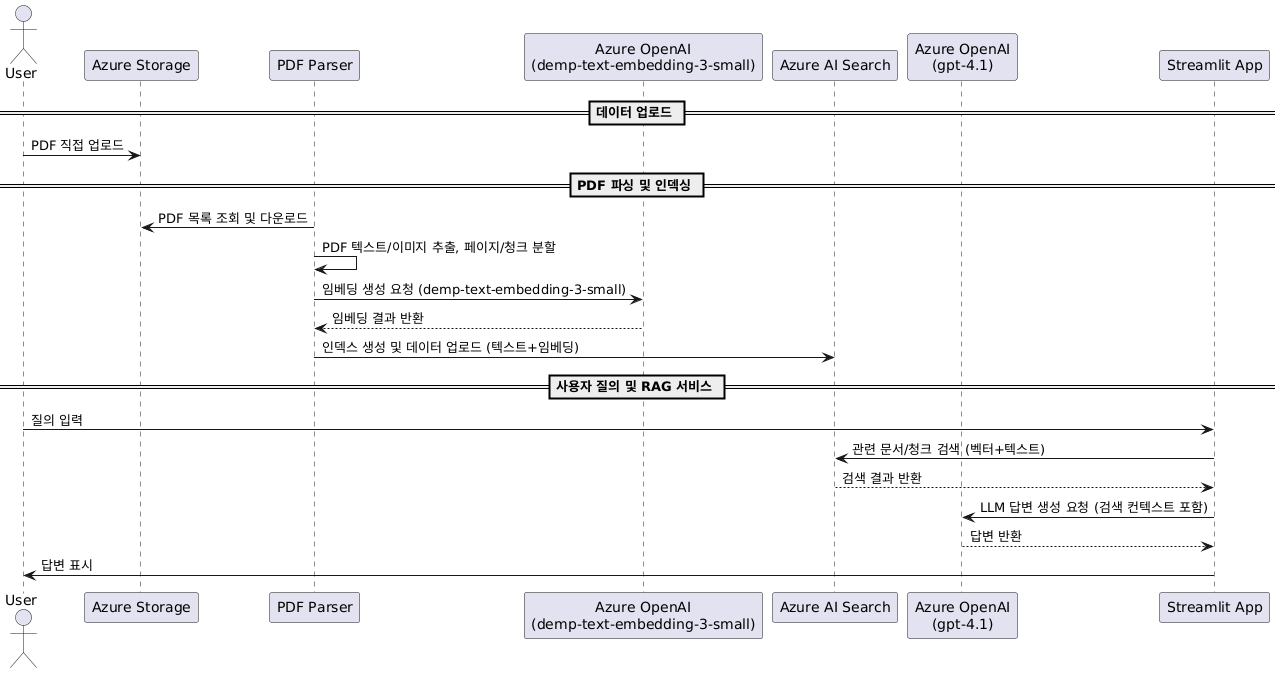
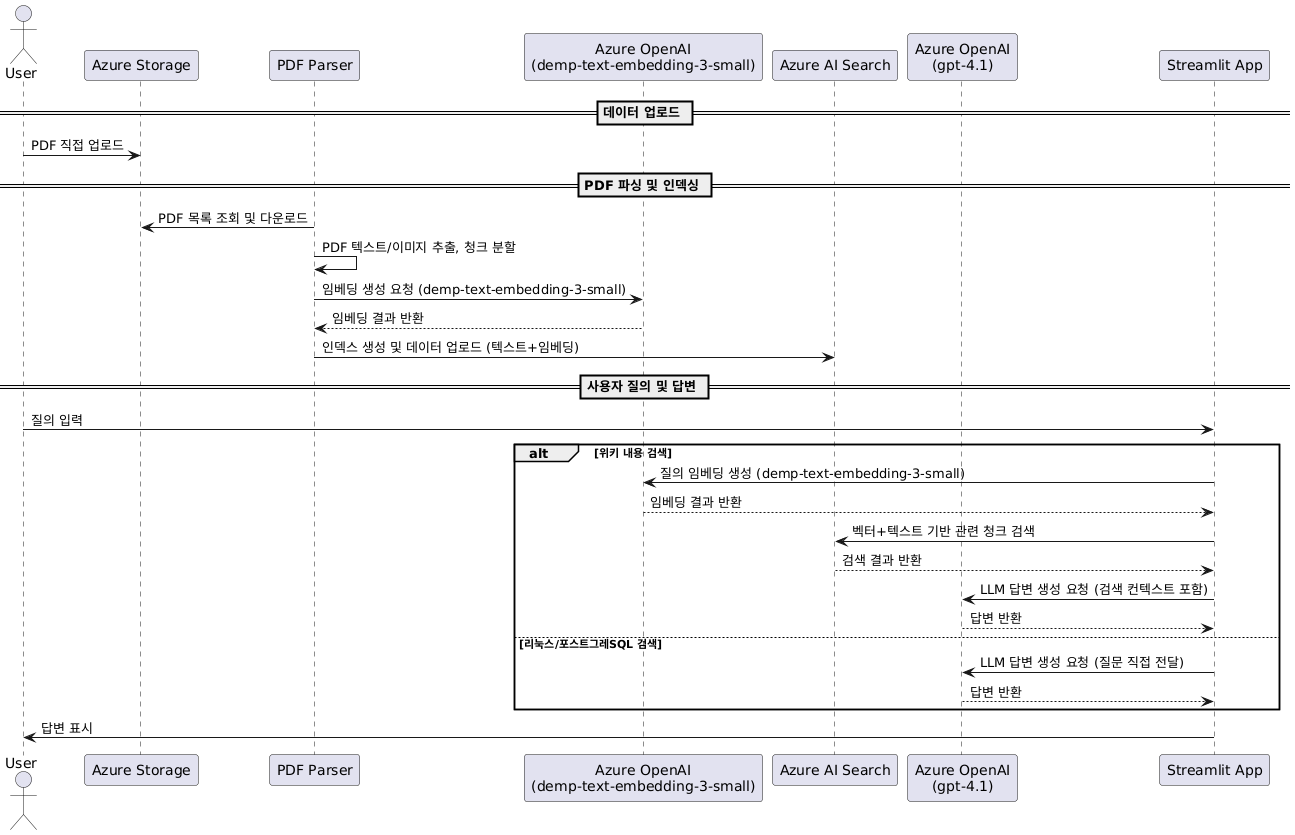
Refactor code structure for improved readability and maintainability

diff --git a/README.md b/README.md
@@ -36,6 +36,8 @@
 - **Streamlit 기반 UI**:
     - 간편한 웹 인터페이스 제공
 
+![airmapqna.png](airmapqna.png)
+
 ## 설치 및 실행 방법
 
 1. **필수 패키지 설치**
@@ -81,18 +83,20 @@ streamlit run airmapqna-app.py
 | airmapqna-app.py | 메인 Streamlit 앱 코드 |
 | .env | 환경 변수 파일 (직접 생성 필요) |
 
-## 주요 코드 설명
+## 주요 흐름
 
-- **클라이언트 초기화**:
-Azure OpenAI 및 Azure AI Search 클라이언트 객체를 초기화하고 캐시하여 사용합니다.
-- **질문 라우팅**:
-질문 내용에 따라 리눅스, PostgreSQL, 위키로 분기하여 처리합니다.
-- **RAG 답변 생성**:
-위키 관련 질문은 임베딩 및 벡터 검색을 통해 관련 문서를 찾고, LLM을 이용해 답변을 생성합니다.
-- **전문가 답변 생성**:
-리눅스/포스트그레SQL 질문은 전문가 프롬프트를 사용해 답변을 생성합니다.
-- **Streamlit UI**:
-간단한 웹 UI를 통해 질문 입력 및 답변 확인이 가능합니다.
+- **PDF 업로드**:
+Azure Storage에 PDF 파일을 업로드
+- **파싱 및 인덱싱**:
+-- PDF Parser가 Storage에서 PDF를 다운로드
+-- 텍스트/이미지 추출, 청크 분할
+-- 각 청크에 대해 demp-text-embedding-3-small 임베딩 생성
+-- 임베딩+텍스트를 Azure AI Search에 인덱싱
+- **질의 및 답변**:
+-- 사용자가 Streamlit 앱에 질의 입력
+-- 위키 검색: 질의 임베딩 → 벡터+텍스트 검색 → 컨텍스트 기반으로 gpt-4.1 답변
+-- 리눅스/포스트그레SQL: 질의를 바로 gpt-4.1로 전달해 답변 생성
+-- 결과를 사용자에게 반환
 
 ![airmap-uml.png](airmap-uml.png)
 
